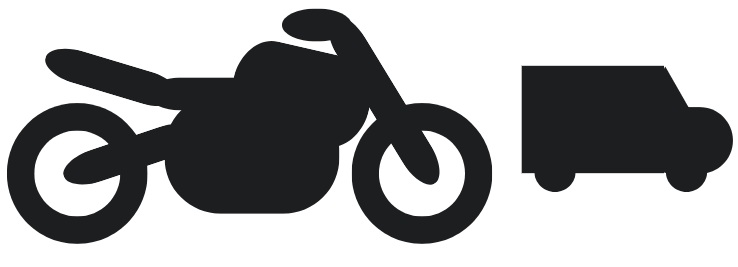
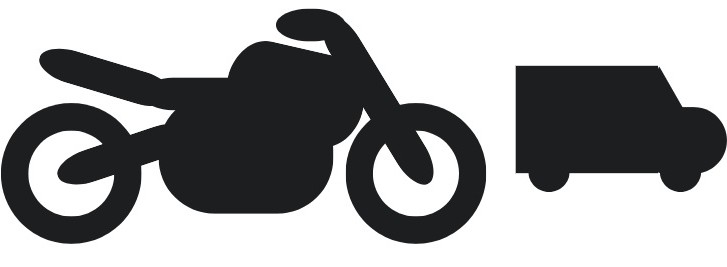
Auto-sync: 2025-10-10 17:40:53

diff --git a/public/services/local.css b/public/services/local.css
@@ -11,7 +11,7 @@
 .product-image {
   width: 100%;
   height:   100%;
-  object-fit: cover;
+  object-fit: contain;
   overflow: hidden;
   border-radius: 12px;
   display: block;
